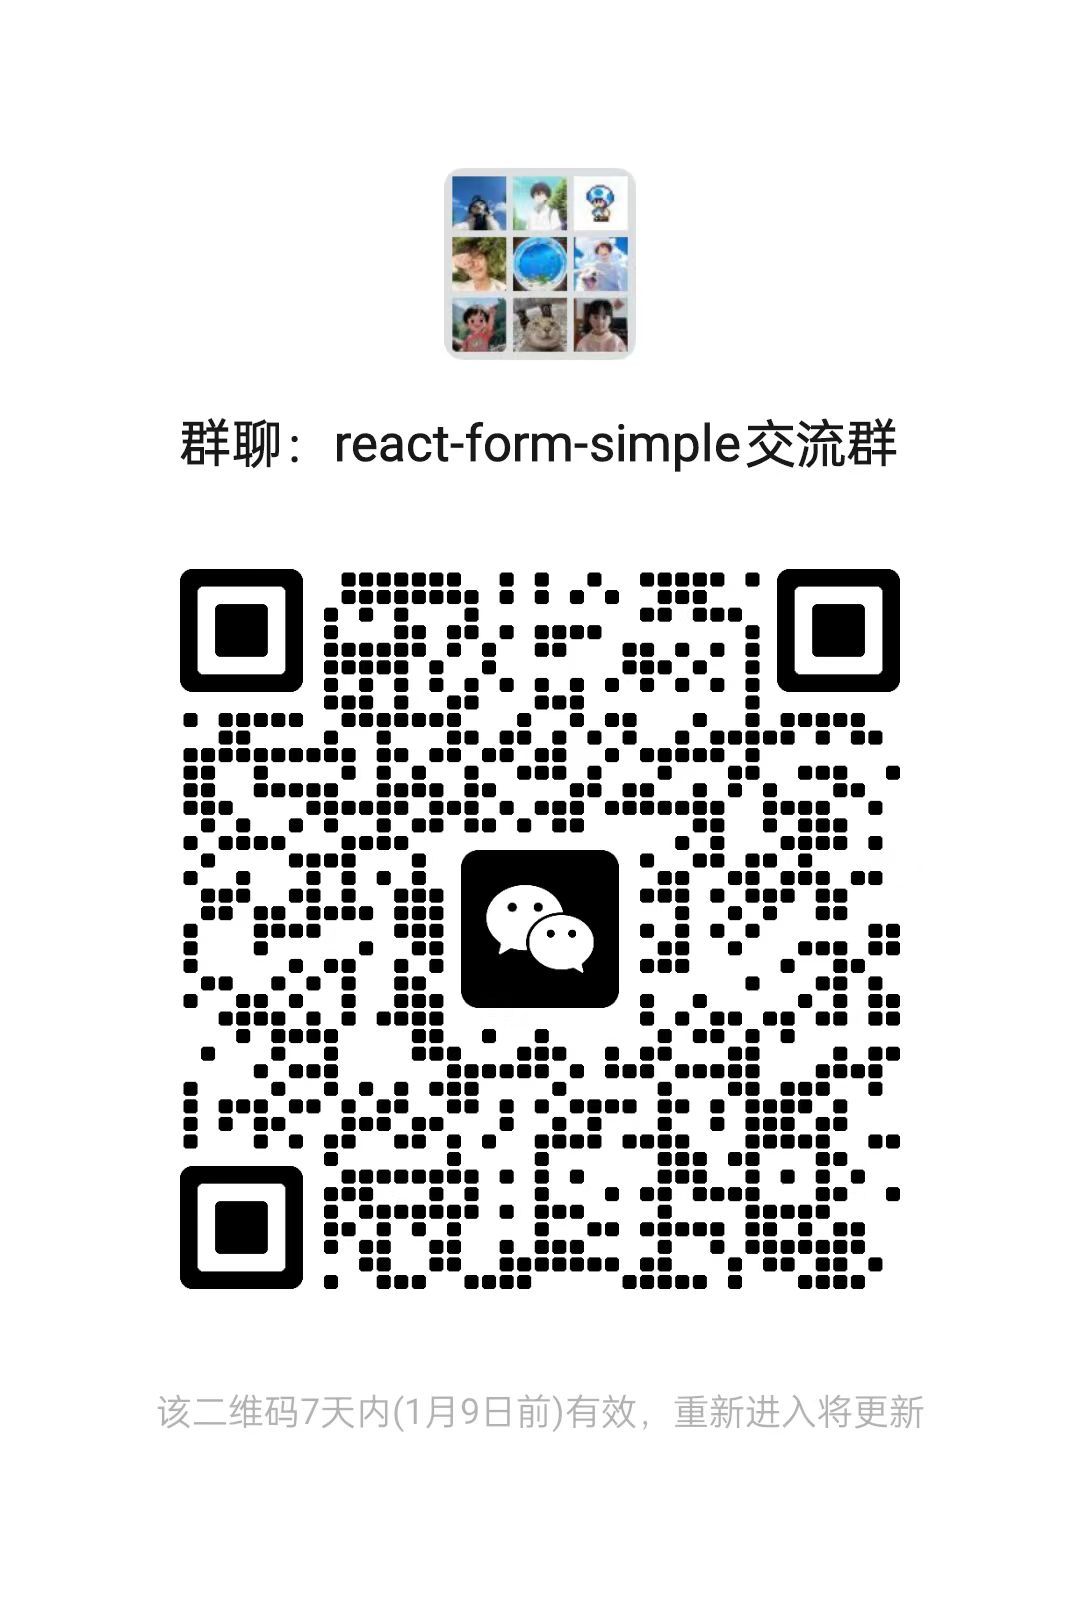
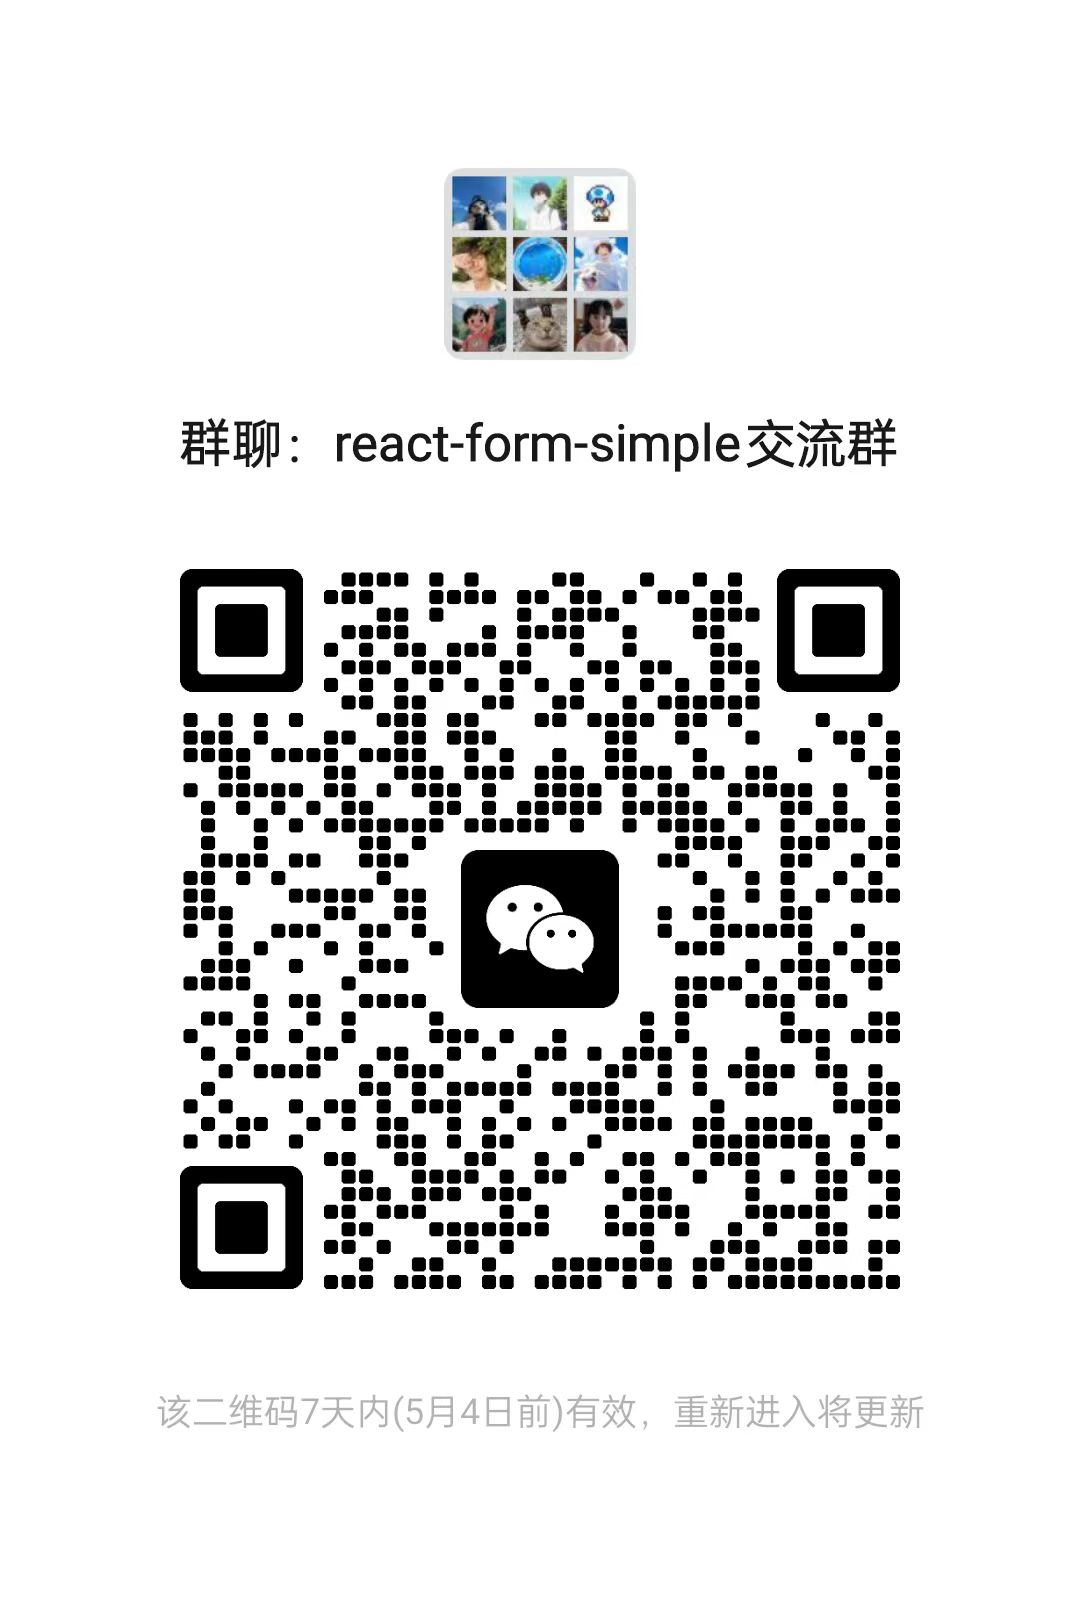
docs: add wx group

Changed region(s): [[0.1528, 0.3433, 0.8556, 0.8115], [0.4278, 0.8739, 0.4583, 0.9051], [0.3667, 0.8739, 0.3972, 0.9051]]

diff --git a/README.md b/README.md
@@ -150,7 +150,7 @@ export default function App() {
 ### <div align="center">Join WeChat Group</div>
 
 <div align="center">
-  <img src="./public/wechat-group.jpg?v=2" alt="wechat-group" width="30%">
+  <img src="./public/wechat-group.jpg?v=3" alt="wechat-group" width="30%">
 </div>
 
 ## 📝 License
